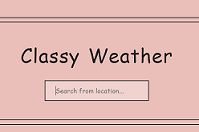
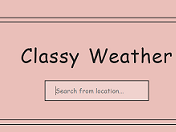
new

Changed region(s): [[0.0852, 0.3636, 0.9943, 0.5152], [0.1989, 0.6061, 0.7102, 0.7879], [0.7386, 0.6061, 0.8523, 0.7879]]

diff --git a/src/index.css b/src/index.css
@@ -21,7 +21,12 @@ body {
 }
 
 .project-description {
+  font-family: cursive;
   flex: 1;
+}
+
+h3 {
+  font-family: 'Trebuchet MS', 'Lucida Sans Unicode', 'Lucida Grande', 'Lucida Sans', Arial, sans-serif;
 }
 
 .project-content {
@@ -32,8 +37,10 @@ body {
   border: 1px solid #ddd;
   border-radius: 8px;
   padding: 10px;
+  gap: 20px;
   margin: 10px;
 }
+
 
 .section {
   margin: 100px;
@@ -143,13 +150,14 @@ form button {
 }
 
 button {
-  color: white;
+  color: black;
   padding: 5px 10px;
   border: none;
   width: auto;
   max-width: 100px;
   text-align: center;
   border-radius: 10px;
+  border: 1px solid gray;
 }
 
 .send-button {
